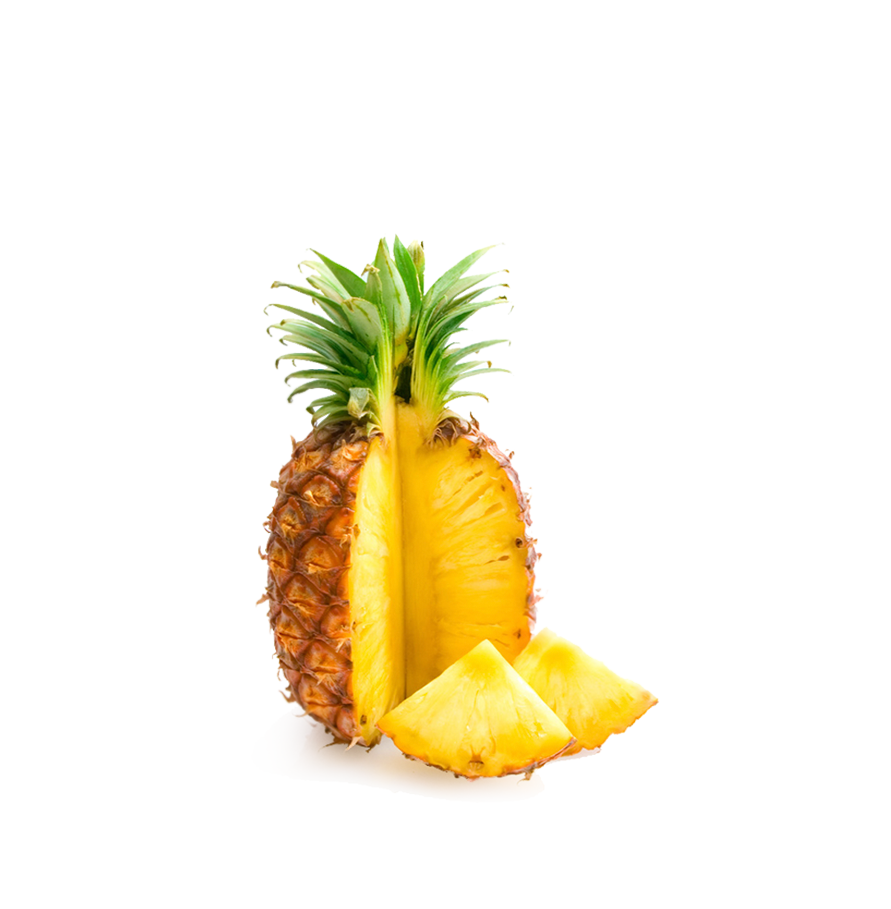
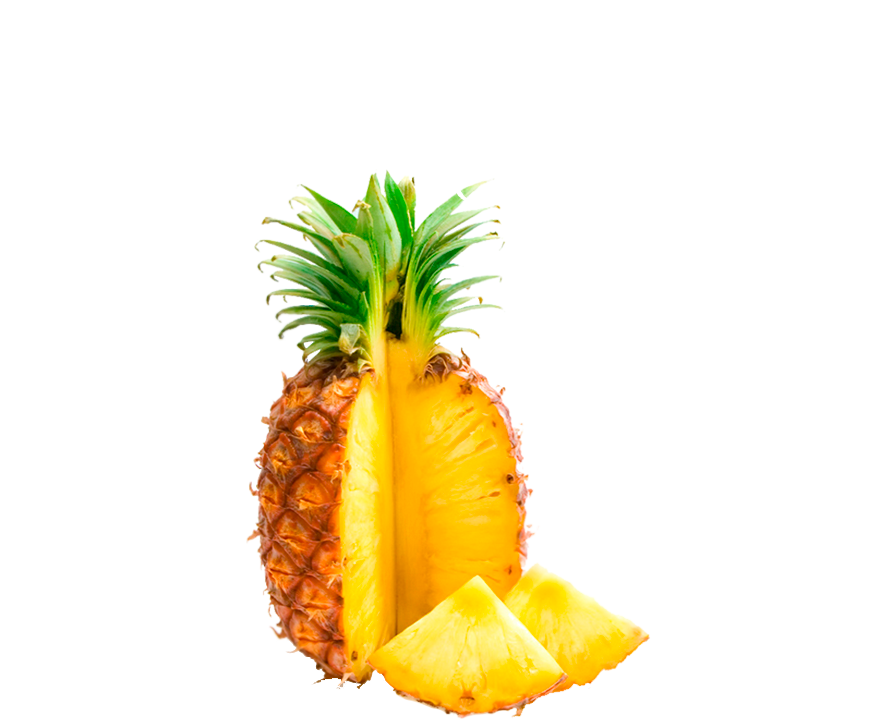
Modificando navbar e imagen de pina

Changed region(s): [[0.2727, 0.2434, 0.7576, 1.0]]

diff --git a/css/style.css b/css/style.css
@@ -191,6 +191,10 @@ p.lead {
 /* NAVBAR
 ----------------------*/
 
+.container-nav{
+    max-width: 1400px;
+}
+
 .nav-menu {
     padding: 1rem 0;
     transition: all 0.3s ease;
@@ -216,7 +220,7 @@ p.lead {
     .navbar-expand-lg .navbar-nav .nav-link {
         padding-right: 1rem;
         padding-left: 1rem;
-        font-size: 14px;
+        font-size: 18px;
     }
     .navbar-nav>.nav-item>.nav-link.active:after {
         content: "";
@@ -1148,8 +1152,12 @@ header {
 /*// MEDIA QUERY //*/
 
 @media (max-width: 1921px){
+    .logo-navbar {
+        width: 27%;
+    }
     .img-pina{
-        width: 41% !important;
+        width: 36% !important;
+        margin-top: 80px;
     }
     .section{
         padding: 10px 0;
@@ -1170,31 +1178,33 @@ header {
 
 @media (max-width: 1601px){
     .img-pina{
-        width: 32% !important;
+        width: 45% !important;
+        margin-top: 32px;
     }
 }
 
 @media (max-width: 1561px){
     .img-pina{
-        width: 43% !important;
+        width: 60% !important;
+        margin-top: 47px;
     }
 }
 
 @media (max-width: 1441px){
     .img-pina{
-        width: 36% !important;
+        width: 50% !important;
     }
 }
 
 @media (max-width: 1367px){
-    .img-pina{
-        width: 29% !important;
-    }
+    .img-pina {
+    width: 42% !important;
 }
 
 @media (max-width: 1281px){
     .img-pina{
-        width: 30% !important;
+        width: 40% !important;
+        margin-top: 0;
     }
     h1{
         font-size: 30px;
@@ -1211,8 +1221,17 @@ header {
 }
 
 @media (max-width: 1025px){
-    .img-pina{
-        width: 35% !important;
+    header{
+        padding: 70px;
+    }
+    .img-pina {
+        width: 45% !important;
+    }
+    .nav-menu .col-md-12{
+        padding: 0;
+    }
+    .navbar-brand{
+        width: 170px;
     }
 }
 

diff --git a/js/script.js b/js/script.js
@@ -17,7 +17,7 @@ $(function() {
      *-----------------------------------*/
     function menuscroll() {
         var $navmenu = $('.nav-menu');
-        if ($(window).scrollTop() > 50) {
+        if ($(window).scrollTop() > 100) {
             $navmenu.addClass('is-scrolling');
         } else {
             $navmenu.removeClass("is-scrolling");
@@ -58,6 +58,7 @@ $(function() {
             // Does a scroll target exist?
             if (target.length) {
                 // Only prevent default if animation is actually gonna happen
+                console.log("-" + target.offset().top);
                 event.preventDefault();
                 $('html, body').animate({
                     scrollTop: target.offset().top
@@ -112,8 +113,6 @@ $(function() {
 }); /* End Fn */
 
 /* Carrusel catalogo*/
-
-console.log ($(".basic2 .carousel"));
 
 /*
 $(".basic2 .carousel").jCarouselLite({

diff --git a/index.html b/index.html
@@ -37,7 +37,7 @@
     <!-- Nav Menu -->
 
     <div class="nav-menu fixed-top">
-        <div class="container">
+        <div class="container container-nav">
             <div class="row">
                 <div class="col-md-12">
                     <nav class="navbar navbar-dark navbar-expand-lg">
